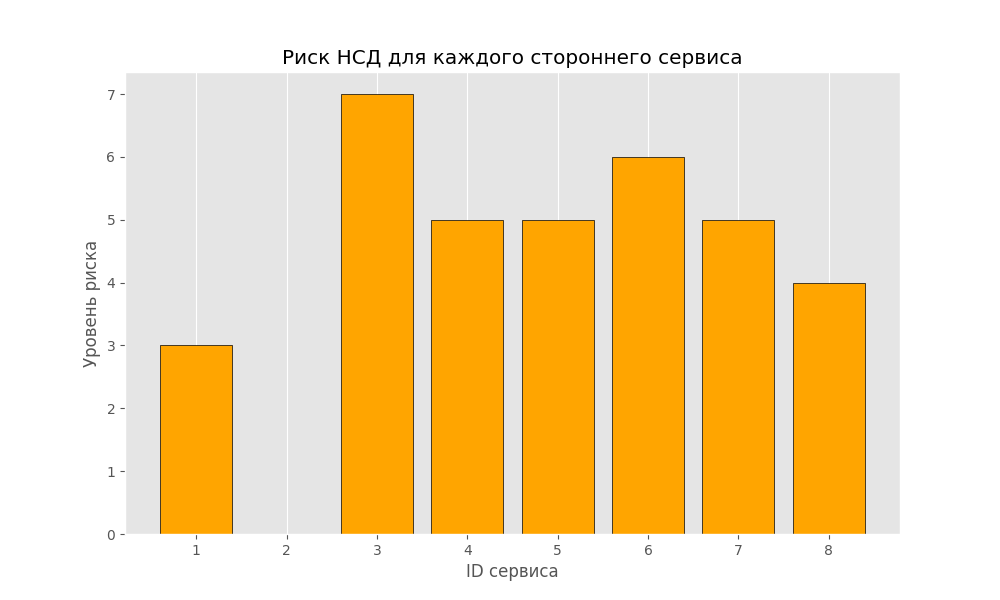
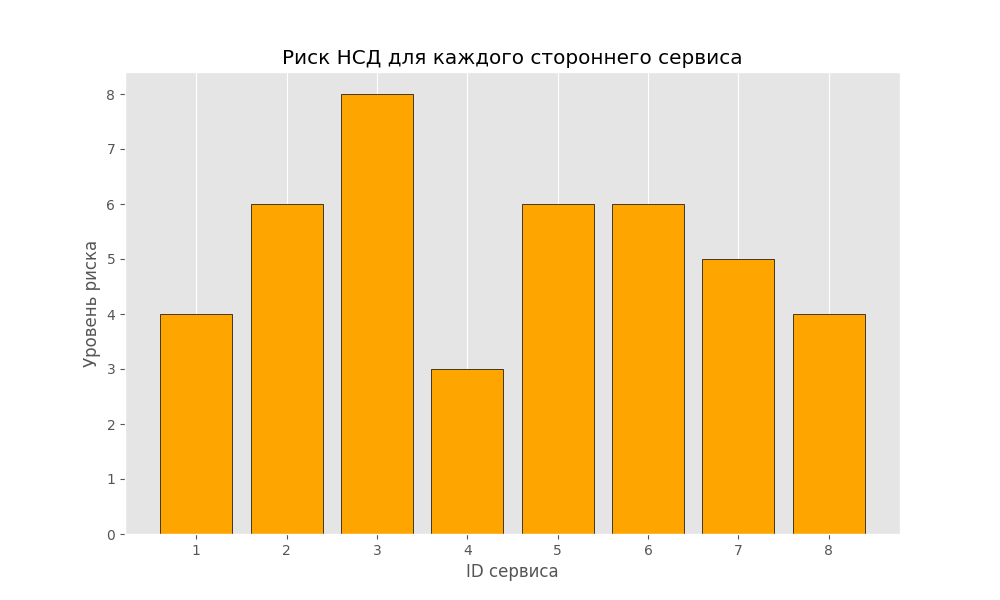
Изменение 2

diff --git a/main.py b/main.py
@@ -384,7 +384,7 @@ for i in range(n):
     if token_reuse[i] == 1:
         risk += 2
     risk_level.append(risk)
-    if risk >= 4: #Изменения2. Пороговое значение риска изменено с 3 на 4 
+    if risk >= 3: #Изменения2. Пороговое значение риска изменено с 4 на 3 
         decision.append("BLOCK")
     else:
         decision.append("ALLOW")
